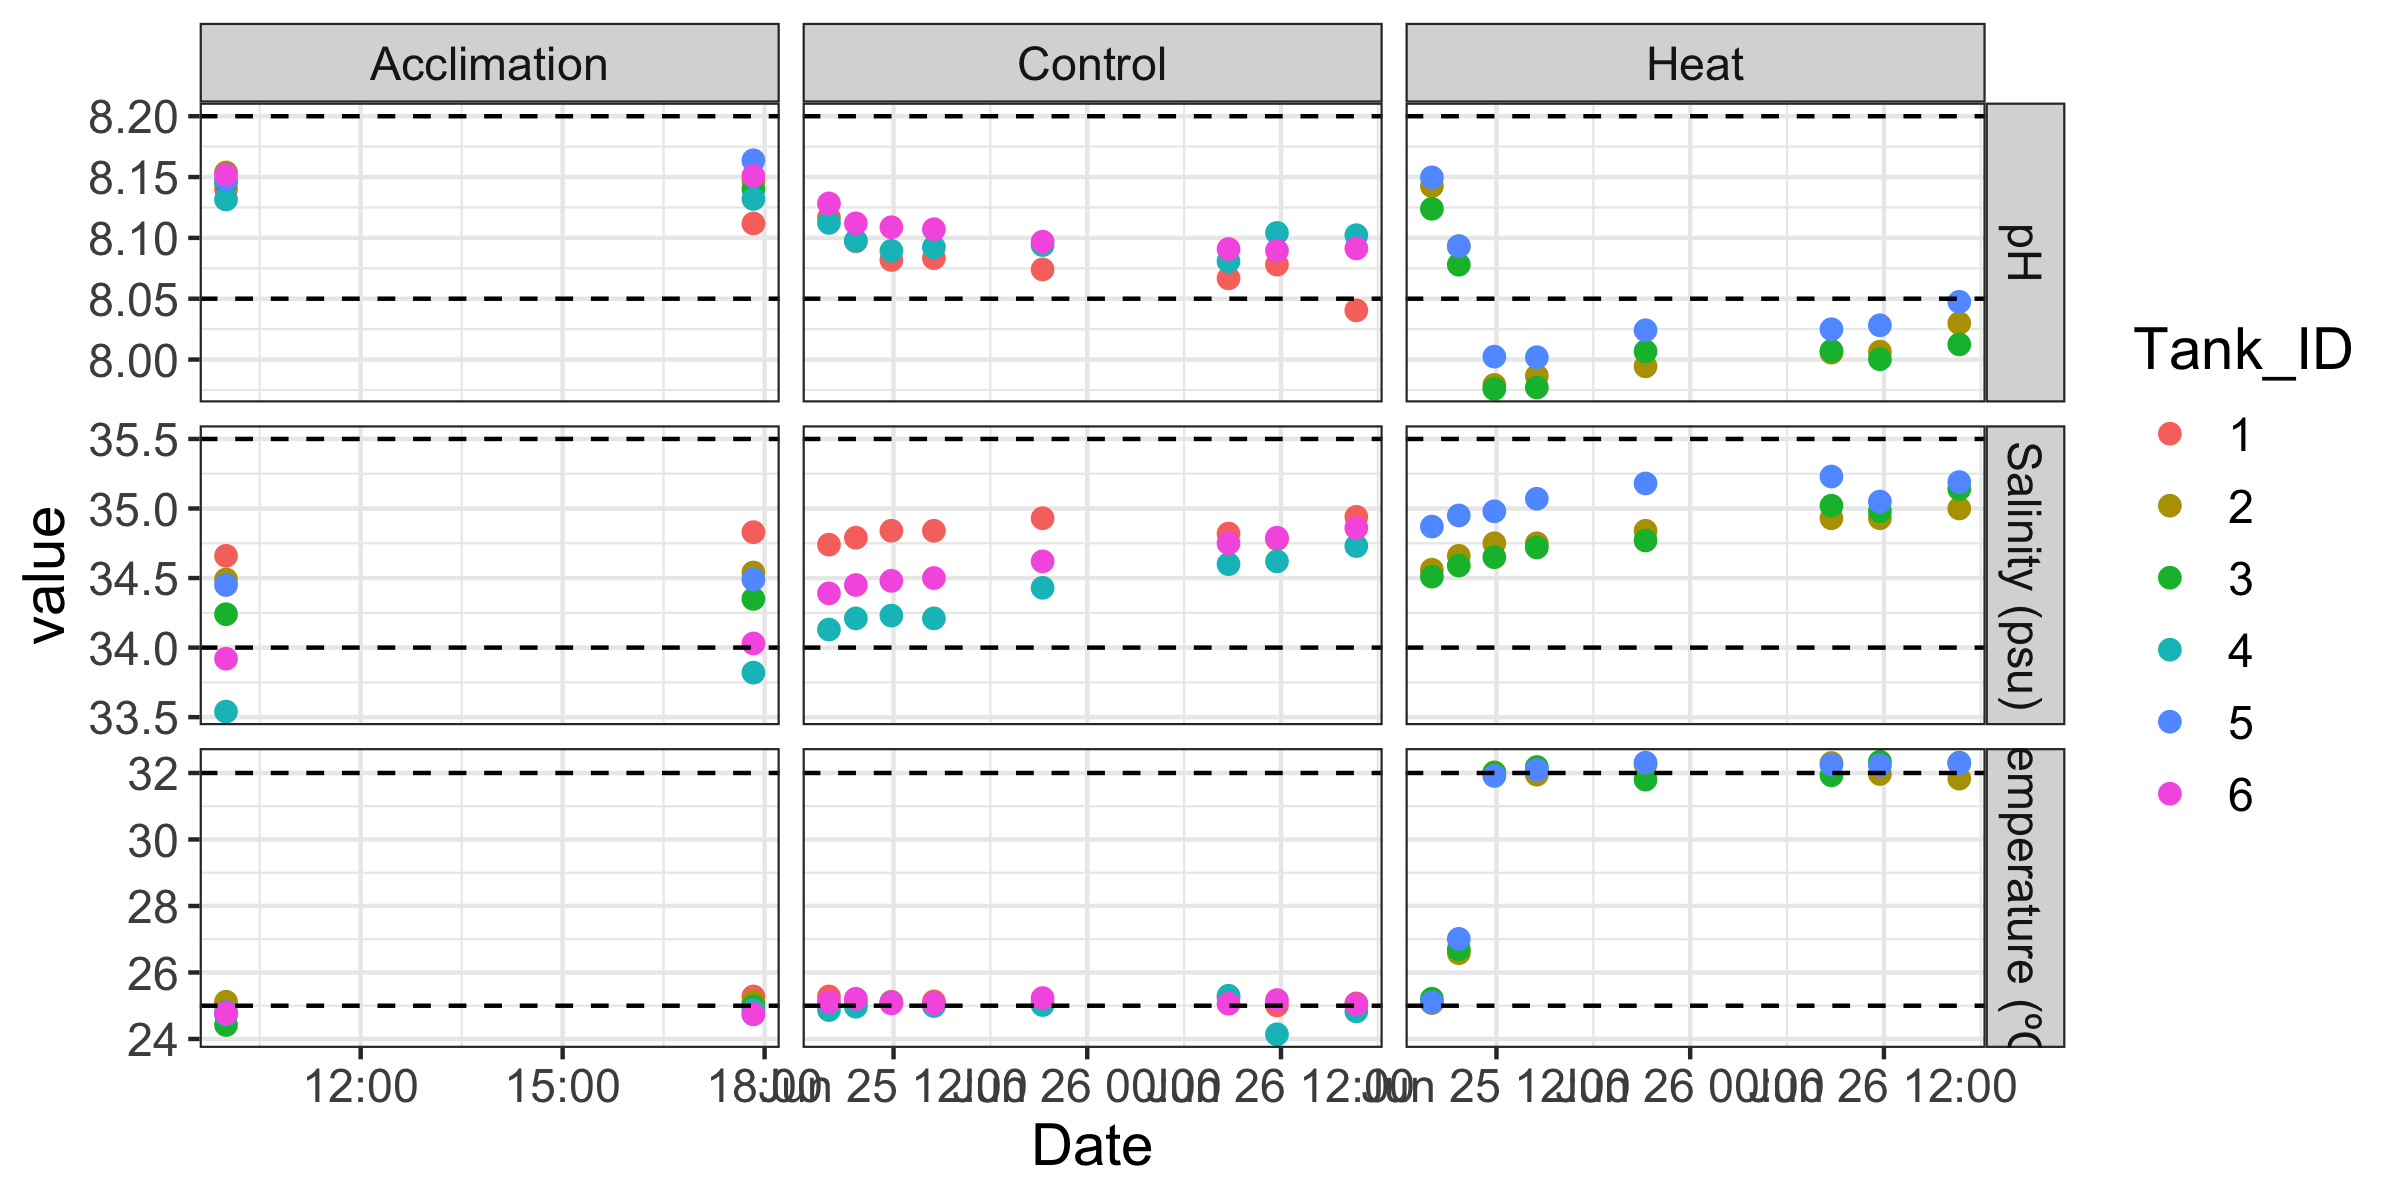
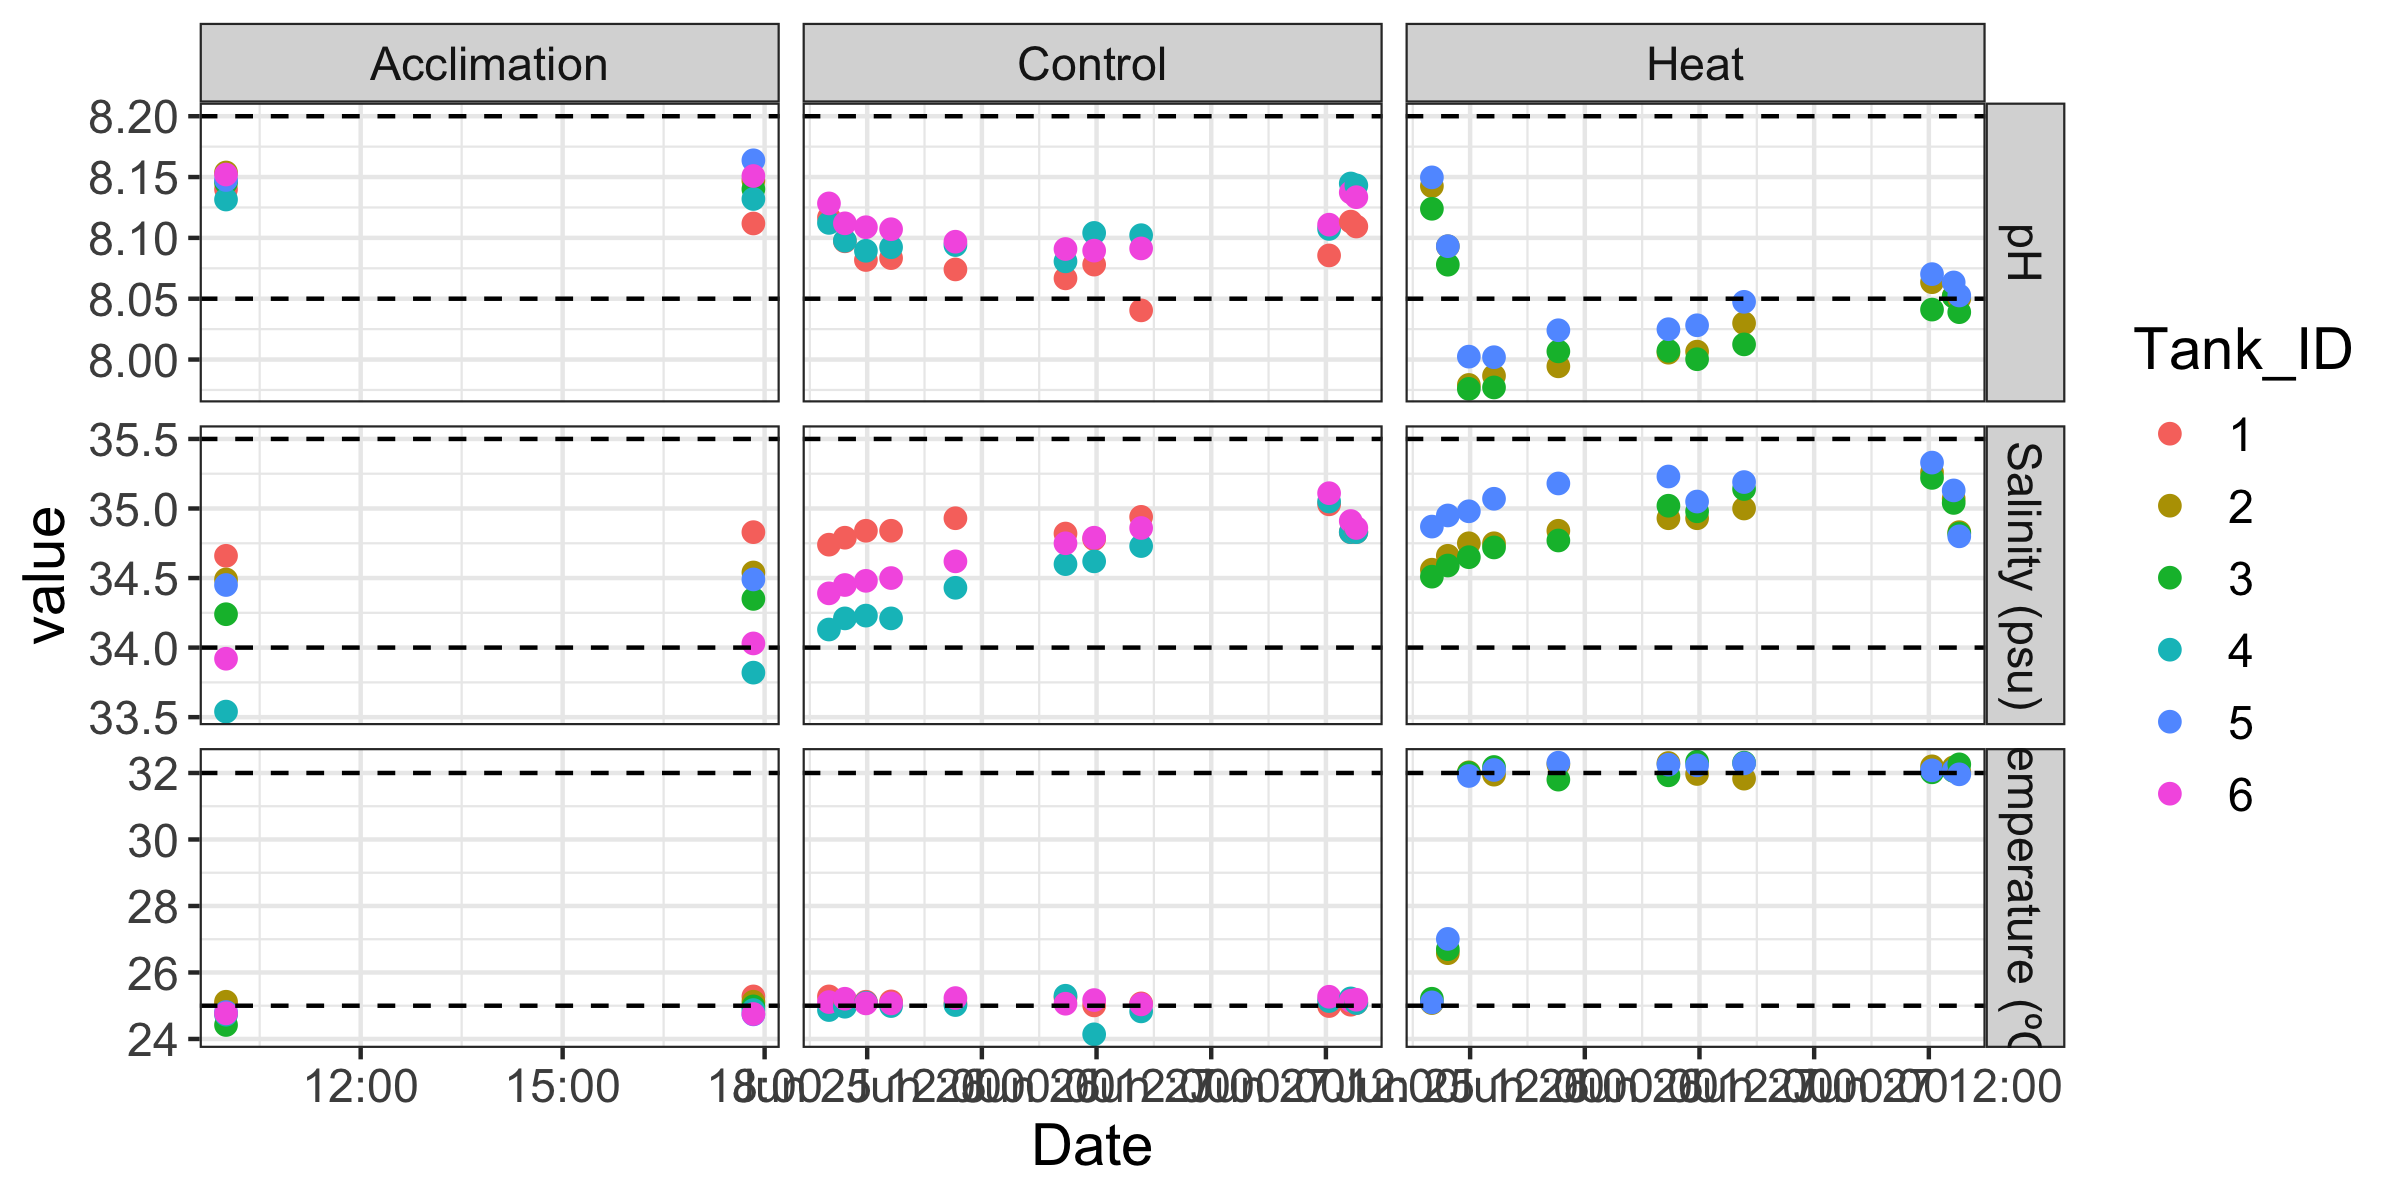
dms friday

diff --git a/1-Pcom/code/DMs.md b/1-Pcom/code/DMs.md
@@ -60,19 +60,19 @@ tail(daily) # check to make sure data from today is there
 ```
 
     ##        Date Treatment Tank_ID  Time Initials Temperature_C pH_mv Salinity_psu
-    ## 55 20250626   Control       1 16:40       ZD         25.07 -57.2        34.94
-    ## 56 20250626      Heat       2 16:40       ZD         31.83 -61.7        35.00
-    ## 57 20250626      Heat       3 16:40       ZD         32.31 -61.0        35.14
-    ## 58 20250626   Control       4 16:40       ZD         24.83 -60.7        34.73
-    ## 59 20250626      Heat       5 16:40       ZD         32.29 -63.1        35.19
-    ## 60 20250626   Control       6 16:40       ZD         25.04 -60.2        34.86
+    ## 73 20250627   Control       1 15:11       ZD         25.08 -61.3        34.83
+    ## 74 20250627      Heat       2 15:11       ZD         32.03 -63.1        34.83
+    ## 75 20250627      Heat       3 15:11       ZD         32.26 -62.6        34.82
+    ## 76 20250627   Control       4 15:11       ZD         25.08 -63.3        34.83
+    ## 77 20250627      Heat       5 15:11       ZD         31.96 -63.2        34.80
+    ## 78 20250627   Control       6 15:11       ZD         25.18 -62.8        34.86
     ##    tris.date Probe.Set notes
-    ## 55  20250618    Probe1      
-    ## 56  20250618    Probe1      
-    ## 57  20250618    Probe1      
-    ## 58  20250618    Probe1      
-    ## 59  20250618    Probe1      
-    ## 60  20250618    Probe1
+    ## 73  20250618    Probe1      
+    ## 74  20250618    Probe1      
+    ## 75  20250618    Probe1      
+    ## 76  20250618    Probe1      
+    ## 77  20250618    Probe1      
+    ## 78  20250618    Probe1
 
 ``` r
 daily$Date <- as.Date(as.character(daily$Date), format = "%Y%m%d")
@@ -100,7 +100,7 @@ range(na.omit(daily.probe1$pH_mv))
 range(na.omit(daily.probe1$Salinity_psu))
 ```
 
-    ## [1] 33.54 35.23
+    ## [1] 33.54 35.33
 
 ## 0.3 Calculate total pH from Probe Set 1
 
@@ -225,12 +225,12 @@ summary <- daily_exp%>%
     ## # A tibble: 6 × 9
     ##   Tank_ID Temperature_C_mean Temperature_C_sd Salinity_psu_mean Salinity_psu_sd
     ##   <chr>                <dbl>            <dbl>             <dbl>           <dbl>
-    ## 1 1                     25.1           0.0980              34.8          0.0829
-    ## 2 2                     29.4           3.43                34.7          0.180 
-    ## 3 3                     29.4           3.54                34.7          0.291 
-    ## 4 4                     24.9           0.304               34.3          0.370 
-    ## 5 5                     29.5           3.55                34.9          0.275 
-    ## 6 6                     25.0           0.165               34.5          0.309 
+    ## 1 1                     25.1           0.0976              34.8          0.0927
+    ## 2 2                     30.0           3.20                34.8          0.224 
+    ## 3 3                     30.0           3.29                34.8          0.302 
+    ## 4 4                     24.9           0.290               34.4          0.432 
+    ## 5 5                     30.1           3.27                35.0          0.269 
+    ## 6 6                     25.1           0.160               34.6          0.345 
     ## # ℹ 4 more variables: pH.total_mean <dbl>, pH.total_sd <dbl>, pH_mv_mean <dbl>,
     ## #   pH_mv_sd <dbl>
 
